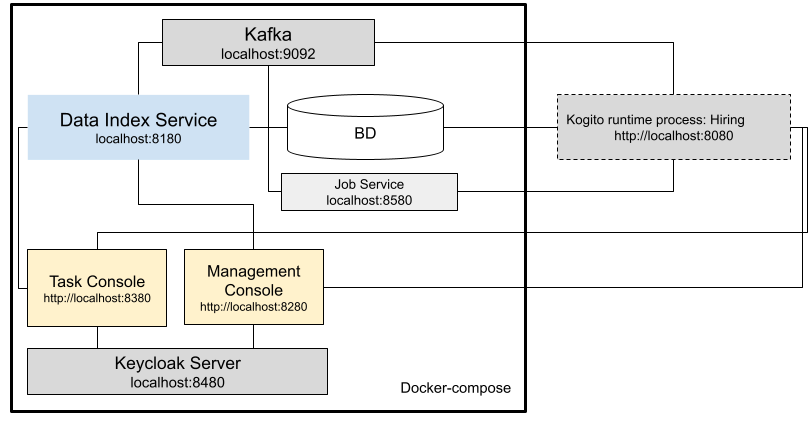
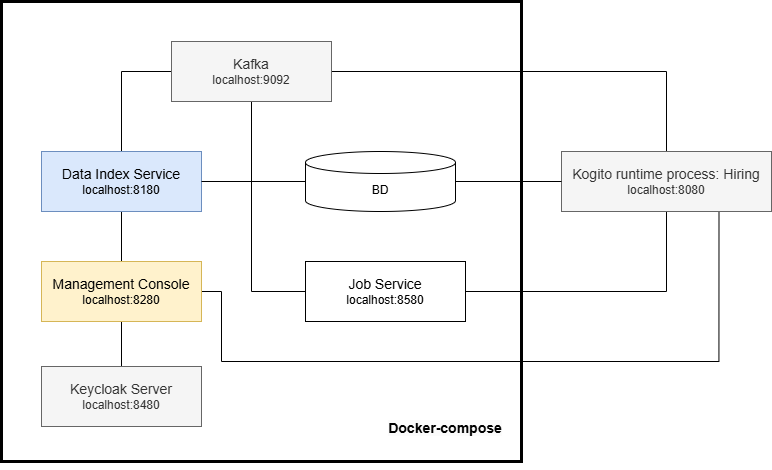
Remove all Task Console references

diff --git a/kogito-quarkus-examples/process-usertasks-timer-quarkus-with-console/README.md b/kogito-quarkus-examples/process-usertasks-timer-quarkus-with-console/README.md
@@ -18,7 +18,6 @@ The required *Kogito and Infrastructure Services* for this example are:
 - Kogito Data Index
 - Kogito Jobs Service 
 - Kogito Management Console
-- Kogito Task Console
 - Keycloak
 
 ## Running the Quickstart
@@ -63,13 +62,13 @@ You should start all the services before you execute any of the **Hiring** examp
 3. Run the ```startServices.sh``` script
 
 ```bash
-sh ./startServices.sh
+./startServices.sh
 ```
 
 or
 
 ```bash
-sh ./startServices.sh postgresql
+./startServices.sh postgresql
 ```
 
 Once all services bootstrap, the following ports will be assigned on your local machine:
@@ -79,7 +78,6 @@ Once all services bootstrap, the following ports will be assigned on your local 
 - Data Index: 8180
 - Jobs Service: 8580
 - Management Console: 8280
-- Task Console: 8380
 - Keycloak: 8480
 - PgAdmin: 8055
 
@@ -157,7 +155,7 @@ You should start all the services before you execute any of the **Hiring** examp
 3. Run the ```startServices.sh``` script with infinispan argument
 
 ```bash
-sh ./startServices.sh infinispan
+./startServices.sh infinispan
 ```
 
 Once all services bootstrap, the following ports will be assigned on your local machine:
@@ -167,7 +165,6 @@ Once all services bootstrap, the following ports will be assigned on your local 
 - Data Index: 8180
 - Jobs Service: 8580
 - Management Console: 8280
-- Task Console: 8380
 - Keycloak: 8480
 
 > **_NOTE:_**  This step requires the project to be compiled, please consider running a ```mvn clean install -Pinfinispan``` command on the project root before running the ```startServices.sh infinispan``` script for the first time or any time you modify the project.
@@ -298,54 +295,6 @@ Job panel shows the job details related to the timer execution:
     <img width=75%  src="docs/images/Job_details.png">
 </p>
 
-### Execute IT Interview task at Kogito Task Console
-
-To access the Kogito Task Console just open your browser and navigate to ``http://localhost:8280``. You'll be redirected to the *Keycloak* log in page.
-
-<p align="center">
-    <img width=75%  src="docs/images/keycloak-login.png">
-</p>
-
-Once there, log in using any of the users specified in the [Using Keycloak as Authentication Server](#using-keycloak-as-authentication-server) 
-
-> **_NOTE:_**  For more information about how to work with Kogito Task Console, please refer to the [Kogito Documentation](https://docs.jboss.org/kogito/release/latest/html_single/#con-task-console_kogito-developing-process-services) page.
-
-Access to Task Console again and verify IT Interview is available  
-<p align="center">
-    <img width=75%  src="docs/images/TC_listIT.png">
-</p>
-
-Access to IT Interview task, and complete.  
-<p align="center">
-    <img width=75%  src="docs/images/IT_task.png">
-</p>
-
-After complete the task, check the list of tasks show both completed tasks  
-<p align="center">
-    <img width=75%  src="docs/images/TC_listIT_completed.png">
-</p>
-
-Check the process instance details to verify the instance have been completed 
-
-<p align="center">
-    <img width=75%  src="docs/images/MC_details_3_completed_executed_job.png">
-</p>
-
-Jobs can be accessed in two ways on Management console:
-
-You can navigate to the process details page which has a dedicated panel showing a list of jobs associated with the process instance.
-
-You can also check the list of all the jobs available by navigating to the Jobs section.
-
-<p align="center">
-    <img width=75%  src="docs/images/JobsManagement.png">
-</p>
-
-Let's verify the HR interview has been avoided looking at application logs.
-<p align="center">
-    <img width=100%  src="docs/images/HR_interview_avoided_logs.png">
-</p>
-
 ### Submit a new request to start new hiring
 
 In a Terminal you can execute this command to start a **Hiring** process for the "Jon Snow" candidate:
@@ -361,38 +310,3 @@ curl -H "Content-Type: application/json" -H "Accept: application/json" -X POST h
 }
 EOF
 ```
-
-### Execute HR Interview task before timer expires at Kogito Task Console
-
-Access the Kogito Task Console.
-
-<p align="center">
-    <img width=75%  src="docs/images/TC_listHR.png">
-</p>
-
-Access to HR Interview task and complete
-  
-<p align="center">
-    <img width=75%  src="docs/images/HR_task.png">
-</p>
-
-Check the process instance details at Kogito Management Console to see the execution path reflects the completed task
-
-<p align="center">
-    <img width=75%  src="docs/images/MC_details_4_IT_no_job.png">
-</p>
-
-Verify the job associated is displayed as cancelled regarding the HR Interview Task has been completed.
-
-Execute IT Interview task as it was described before, and access to the process instance details and see that it has been completed. 
-
-<p align="center">
-    <img width=75%  src="docs/images/MC_details_5_completed_no_job.png">
-</p>
-
-Finally, verify the HR interview has been completed by looking at application logs.
-
-<p align="center">
-    <img width=100%  src="docs/images/HR_interview_completed_logs.png">
-</p>
- 

diff --git a/kogito-quarkus-examples/ocp-tryout/README.md b/kogito-quarkus-examples/ocp-tryout/README.md
@@ -26,7 +26,6 @@ Installation from pre-build images
 - [Data Index](https://docs.jboss.org/kogito/release/1.15.0/html_single/#con-data-index-service_kogito-configuring)
 - [Management console](https://docs.jboss.org/kogito/release/1.15.0/html_single/#con-management-console_kogito-developing-process-services) 
 - [Jobs service](https://docs.jboss.org/kogito/release/latest/html_single/#con-jobs-service_kogito-configuring)
-- [Task console](https://docs.jboss.org/kogito/release/latest/html_single/#con-task-console_kogito-developing-process-services)
 
 ## Architecture 
 ![](./architecture.png)
@@ -86,8 +85,6 @@ All configuration required to make those connections as well as initializations 
 - `kogito.dataindex.wsurl` - the dataindex url, protocol: ws
 ### Kogito Management Console Configurations
 - `kogito.managementconsole.props` - command line properties for the management console
-### Kogito Task Console Configurations
-- `kogito.taskconsole.props` - command line properties for the task console
 ### Kogito Job Service Configurations
 - `kogito.jobsservice.props` - command line properties for the job service
 
@@ -103,7 +100,6 @@ if marked `-` then namespace defaults are applied
 |keycloak|-|-|-|-|
 |kogito-data-index-infinispan|-|-|-|500Mi|
 |kogito-management-console|-|-|-|500Mi|
-|kogito-task-console|-|-|-|500Mi|
 |kogito-jobs-service|-|-|-|500Mi|
 |kogito-travel-agency-travels-jvm|-|-|-|500Mi|
 |kogito-travel-agency-visas-jvm|-|-|-|500Mi|

diff --git a/kogito-quarkus-examples/process-instance-migration-quarkus/README.md b/kogito-quarkus-examples/process-instance-migration-quarkus/README.md
@@ -96,7 +96,7 @@ The Development Mode will embed all the needed Infrastructure Services (PostgreS
 require any extra step.
 
 The `development` profile includes the **Runtime Tools Quarkus Extension** that exposes a new section in the **Quarkus Dev-UI** 
-unifying the **Management Console** & **Task Console** functionalities. **Quarkus Dev-UI** is available at http://localhost:8080/q/dev
+with the **Management Console** functionalities. **Quarkus Dev-UI** is available at http://localhost:8080/q/dev
 
 > **_NOTE:_**  For more information about how to work with Kogito Runtime Tools Quarkus Extension, please refer to the [Kogito Documentation](https://docs.kogito.kie.org/latest/html_single/#con-runtime-tools-dev-ui_kogito-developing-process-services) page.
 

diff --git a/kogito-quarkus-examples/process-usertasks-timer-quarkus-with-console/docker-compose/README.md b/kogito-quarkus-examples/process-usertasks-timer-quarkus-with-console/docker-compose/README.md
@@ -7,7 +7,6 @@ To allow a quick setup of all services required to run this demo, we provide a d
 - Kogito Data Index
 - Kogito Jobs
 - Kogito Management Console
-- Kogito Task Console
 - Keycloak
 
 In order to use it, please ensure you have Docker Compose installed on your machine, otherwise follow the instructions available
@@ -22,7 +21,6 @@ Once all services bootstrap, the following ports will be assigned on your local 
 - Data Index: 8180
 - Jobs: 8580
 - Management Console: 8280
-- Task Console: 8380
 - Keycloak: 8480
 
 ### Postgresql deployment:

diff --git a/kogito-quarkus-examples/ocp-tryout/kogito-shared/README.md b/kogito-quarkus-examples/ocp-tryout/kogito-shared/README.md
@@ -23,7 +23,5 @@ There is one config map per infrastructure component.
 - `kogito.dataindex.wsurl` - the dataindex url, protocol: ws
 #### Kogito Management Console Config
 - `kogito.managementconsole.props` - command line properties for the management console
-#### Kogito Task Console Config
-- `kogito.taskconsole.props` - command line properties for the task console
 #### Kogito Job Service Config
 - `kogito.jobsservice.props` - command line properties for the job service 

diff --git a/kogito-quarkus-examples/kogito-travel-agency/extended/travels/README.md b/kogito-quarkus-examples/kogito-travel-agency/extended/travels/README.md
@@ -143,7 +143,7 @@ cd <path_to_process-usertasks-quarkus-with-console>/docker-compose
 3. Run the ```startServices.sh``` script
 
 ```bash
-sh ./startServices.sh
+./startServices.sh
 ```
 
 Once all services bootstrap, the following ports will be assigned on your local machine:

diff --git a/kogito-quarkus-examples/kogito-travel-agency/extended/visas/README.md b/kogito-quarkus-examples/kogito-travel-agency/extended/visas/README.md
@@ -87,7 +87,7 @@ cd <path_to_process-usertasks-quarkus-with-console>/docker-compose
 3. Run the ```startServices.sh``` script
 
 ```bash
-sh ./startServices.sh
+./startServices.sh
 ```
 
 Once all services bootstrap, the following ports will be assigned on your local machine:
